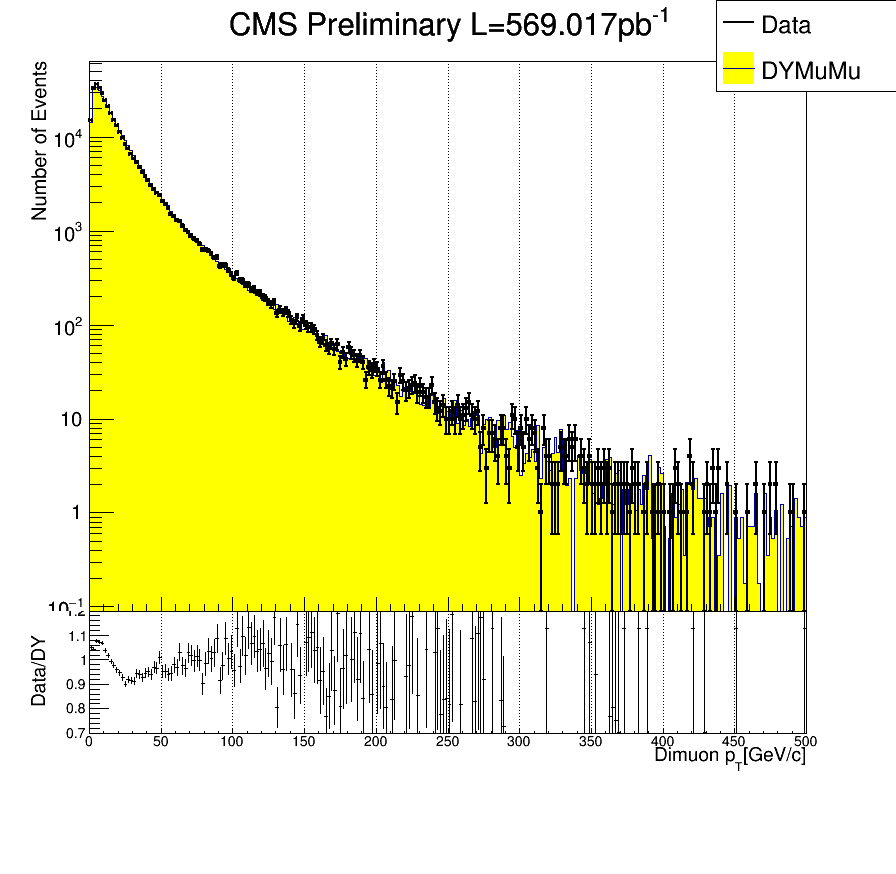
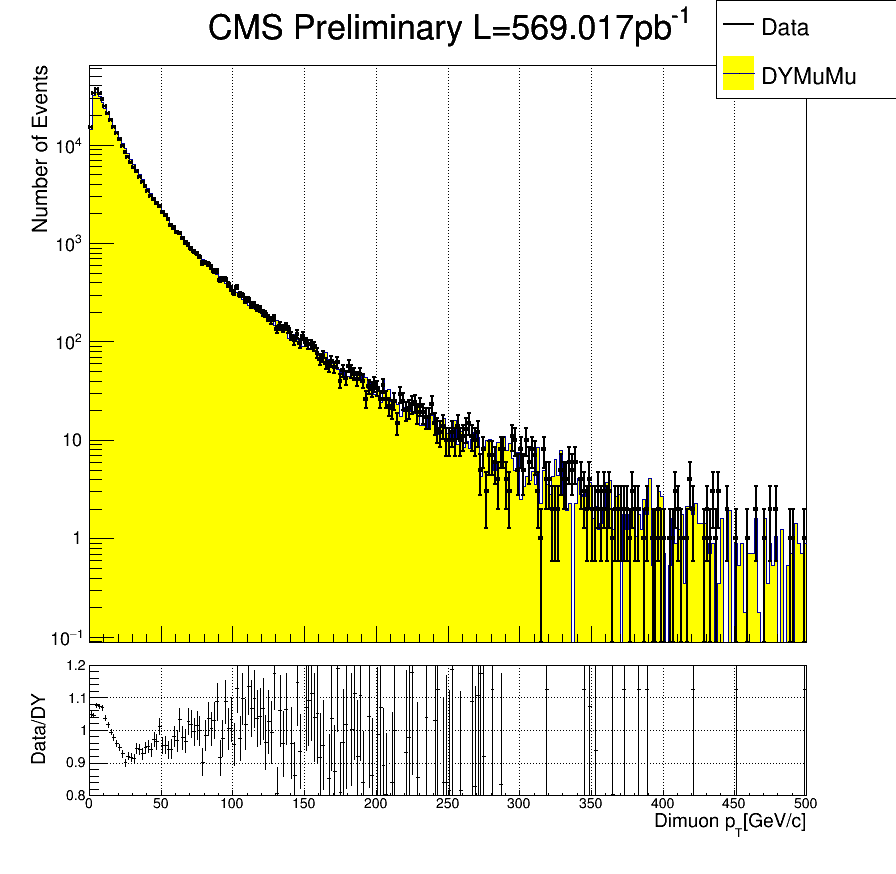
changed plot axis setting

diff --git a/MuonPlots/ratioplot.C b/MuonPlots/ratioplot.C
@@ -35,7 +35,7 @@ void ratioplot () {
 	vector<TString> Type;	vector<TString> XDim;								vector<TString> YDim;
 	Type.push_back("Pt");	XDim.push_back("p_{T}[GeV/c]");			YDim.push_back("Number of Muons");
 	Type.push_back("eta");	XDim.push_back("eta");						YDim.push_back("Number of Muons");
-	Type.push_back("mass");	XDim.push_back("M_{{mumu}[GeV/c^{2}]");	YDim.push_back("Number of Events");
+	Type.push_back("mass");	XDim.push_back("M_{mumu}[GeV/c^{2}]");	YDim.push_back("Number of Events");
 	Type.push_back("diPt");	XDim.push_back("Dimuon p_{T}[GeV/c]");				YDim.push_back("Number of Events");
 	Type.push_back("diRap");XDim.push_back("Dimuon Rapidity");					YDim.push_back("Number of Events");
 
@@ -59,12 +59,12 @@ void ratioplot () {
 	// vector<TCanvas> c;
 	// c.push_back(c0);	c.push_back(c1);	c.push_back(c2);	c.push_back(c3);	c.push_back(c4);
 	//Int_t i = 0;
-	 Int_t j = 2;
+	 //Int_t j = 0;
 	// for (Int_t i = 0; i < 10; i++)
 	{
 		f1 = new TFile ("MuonTightM60to120Pt25.root");
 
-		//for (Int_t j = 0; j < 5; j++)
+		for (Int_t j = 0; j < 5; j++)
 		{
 
 			 c = new TCanvas("c", "canvas", 900, 900);
@@ -91,8 +91,8 @@ void ratioplot () {
 				//c4->cd();
 			c->cd();
 			// Upper plot will be in pad1
-			pad1 = new TPad("pad1", "pad1", 0, 0.3, 1, 1.0);
-			pad1->SetBottomMargin(0); // Upper and lower plot are joined
+			pad1 = new TPad("pad1", "pad1", 0, 0.25, 1, 1.0);
+			pad1->SetBottomMargin(0.02); // Upper and lower plot are joined
 			pad1->SetGridx();         // Vertical grid
 			pad1->Draw();             // Draw the upper pad: pad1
 			pad1->cd();               // pad1 becomes the current pad
@@ -137,8 +137,8 @@ void ratioplot () {
 				//c4->cd();
 			
 			c->cd();
-			pad2 = new TPad("pad2", "pad2", 0, 0.1, 1, 0.3);
-			pad2->SetTopMargin(0.0001);
+			pad2 = new TPad("pad2", "pad2", 0, 0.02, 1, 0.25);
+			pad2->SetTopMargin(0.05);
 			pad2->SetBottomMargin(0.3);
 			pad2->SetGridx(); // vertical grid
 			pad2->SetGridy();
@@ -148,7 +148,7 @@ void ratioplot () {
 			// Define the ratio plot
 			h3 = (TH1F*)h1->Clone("h3");
 			h3->SetLineColor(kBlack);
-			h3->SetMinimum(0.7);  // Define Y ..
+			h3->SetMinimum(0.8);  // Define Y ..
 			h3->SetMaximum(1.2); // .. range
 			h3->Sumw2();
 			h3->SetStats(0);      // No statistics on lower plot
@@ -170,12 +170,16 @@ void ratioplot () {
 				h3->GetXaxis()->SetRangeUser(60,120);
 			}
 
+			h1->GetXaxis()->SetLabelSize(0);
+			h2->GetXaxis()->SetLabelSize(0);
 			// Y axis h1 plot settings
 			h1->GetYaxis()->SetTitle(YDim[j]);
 			h2->GetYaxis()->SetTitle(YDim[j]);
 			h1->GetYaxis()->SetTitleSize(20);
 			h1->GetYaxis()->SetTitleFont(43);
 			h1->GetYaxis()->SetTitleOffset(1.55);
+			//h1->GetYaxis()->SetLabelSize(10);
+			h2->GetYaxis()->SetLabelSize(0.030);
 
 			// h2 settings
 			h2->SetFillColor(kYellow);
@@ -216,8 +220,11 @@ void ratioplot () {
 			//if (j == 4)
 				//img->FromPad(c4);
 
-			//img->FromPad(c);
-			//img->WriteImage("./pictures/TightM60to120_"+Type[j]+"_log.png");
+			img->FromPad(c);
+			if (Type[j] == "mass")
+				img->WriteImage( "./pictures/TightM60to120_"+Type[j]+".png");
+			else
+				img->WriteImage("./pictures/TightM60to120_"+Type[j]+"_log.png");
 			cout << Type[j] << "_TightM60to120_log.png output" << endl;
 
 			// delete h3;

diff --git a/MuonPlots/AccEff.C b/MuonPlots/AccEff.C
@@ -84,6 +84,10 @@ void AccEff(TString HLTname = "IsoMu20")
 
 		ControlPlots *Plots = new ControlPlots( Tag[i_tup] );
 
+		TH1D *h_Pt_genMu = new TH1D ("h_Pt_genMu", "", 250, 0, 500);
+		TH1D *h_eta_genMu = new TH1D ("h_eta_genMu", "",60, -3, 3);
+		TH1D *h_mass_genMu = new TH1D ("h_mass_genMu", "",250, 0 , 500);
+
 		TChain *chain = new TChain("recoTree/DYTree");
 		chain->Add(BaseLocation+"/"+ntupleDirectory[i_tup]+"/ntuple_*.root");
 		if( Tag[i_tup] == "Data" )
@@ -112,7 +116,7 @@ void AccEff(TString HLTname = "IsoMu20")
 
 		Int_t NEvents = chain->GetEntries();
 		cout << "\t[Total Events: " << NEvents << "]" << endl;
-		for(Int_t i=0; i<NEvents; i++)
+		for(Int_t i=0; i<10000; i++)
 		{
 			loadBar(i+1, NEvents, 100, 100);
 
@@ -159,6 +163,14 @@ void AccEff(TString HLTname = "IsoMu20")
 						TLorentzVector gen_v1 = genmu1.Momentum;
 						TLorentzVector gen_v2 = genmu2.Momentum;
 						Double_t gen_M = (gen_v1 + gen_v2).M();
+
+						h_Pt_genMu->Fill( genmu1.Pt, GenWeight);
+						h_Pt_genMu->Fill( genmu2.Pt, GenWeight);
+						h_eta_genMu->Fill( genmu1.eta, GenWeight);
+						h_eta_genMu->Fill( genmu2.eta, GenWeight);
+						h_mass_genMu->Fill( gen_M, GenWeight);
+
+
 
 						cout << "gen_M: " << gen_M << endl;
 
